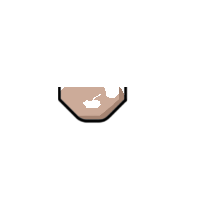
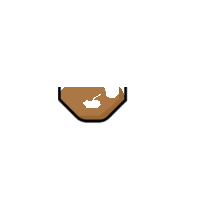
refactored randomisation of displays

Changed region(s): [[0.3, 0.42, 0.63, 0.6]]

diff --git a/jspsych/plugins/jspsych-source-choice.js b/jspsych/plugins/jspsych-source-choice.js
@@ -3,7 +3,7 @@ Description: jsPsych plugin for running a decision-making task that tests people
 Preferably load p5.min.js in the main experiment page (otherwise it will be downloaded from cdnjs.cloudflare.com)
 Need to load jsStat in main expt page
 Todo:
-- will need more logos - and check how logocount is used
+randomise anchors (currently 0-2 male; 3-5 female)
 */
 
 jsPsych.plugins['source-choice'] = (function(){
@@ -34,6 +34,12 @@ jsPsych.plugins['source-choice'] = (function(){
         type: jsPsych.plugins.parameterType.STRING,
         default: 'high',
         description: 'If "high" then all TVs different; if "low" then all the same'
+      },
+      anchor_ids: {
+        type: jsPsych.plugins.parameterType.INT,
+        array: true,
+        default: [0, 1, 2, 3, 4],
+        description: 'Which anchor IDs to use (shuffle in main expt script)'
       },
       social_info_initial: {
         type: jsPsych.plugins.parameterType.FLOAT,
@@ -231,18 +237,40 @@ jsPsych.plugins['source-choice'] = (function(){
     var trialState = 'scenario';
     var estimate;
     var confidence;
-    var displays = [];
-    var thoughts = [];
-    var agents = [];
+    var displays;
+    var thoughts;
+    var agents;
     var hide_agents = ['scenario', 'priorEstimate', 'priorConfidence'];
     var hide_tv = ['scenario', 'priorEstimate', 'priorConfidence', 'priorAgents'];
     var show_bar = ['priorEstimate', 'priorConfidence', 'posteriorEstimate', 'posteriorConfidence'];
 
     // trial functions
 
+    console.log(trial.anchor_ids)
+
+    function displayId(i){
+      // depending on the trial condition (diversity = hi/low)
+      // return a lookup dict to translate anchor # to anchor ID
+      if(trial.diversity == 'low'){
+        if(i==1){
+          // console.log(i, trial.anchor_ids[1])
+          return 1;
+        } else {
+          // console.log(i, trial.anchor_ids[0])
+          return 0;
+        }
+      } else {
+        if(i==3){
+          return 0;
+        } else {
+          return i;
+        }
+      }
+    }
+
     function endTrial() {
-      display_element.innerHTML = ''; // clear everything
       mainSketch.remove();
+      display_element.innerHTML = ''; // clear everything
       jsPsych.finishTrial(trial_data);
     }
 
@@ -293,6 +321,7 @@ jsPsych.plugins['source-choice'] = (function(){
     }
 
     // set up the social data
+
     var social_info = {};
     if(trial.social_info_initial.length>0){
       social_info.initial = trial.social_info_initial;
@@ -334,15 +363,15 @@ jsPsych.plugins['source-choice'] = (function(){
       second = second[0];
       var downward = 0;
       var upward = 0;
-      if(max - second < 0.05){
-        var diff = 0.05 - (max - second);
+      if(max - second < 0.06){
+        var diff = 0.06 - (max - second);
         upward = Math.min(1-max,diff/2);
         downward = diff - upward;
       }
       // incorporate above, and avoid any outright zeros
       var random_array_edited = _.map(random_array, function(d){
         if(d==0){
-          return 0.02;
+          return 0.03;
         } else if(d==second){
           return d - downward;
         } else if(d==max){
@@ -401,15 +430,20 @@ jsPsych.plugins['source-choice'] = (function(){
   function createSketch(){
     mainSketch = new p5(function( sketch ) {
 
-
+      // set global vars
+      displays = [];
+      thoughts = [];
+      agents = [];
 
       // declare sketch variables
-      var logoCount = 7;
       var thought;
-      var logos = [];
       var tvs = [];
+      var backgrounds = [];
+      var anchors = [];
+      var jaws = [];
       var remotesImg = [];
       var remotes = [];
+
       var agentCount = trial.agents;
       var agentParts = {m: {hair: []}, f: {hair: {}}};
       var sketchWidth = 900;
@@ -418,14 +452,9 @@ jsPsych.plugins['source-choice'] = (function(){
       var thoughtSize = 100;
       var topMargin = 50;
       var passes = 4;
-      var displaySizes = {
-        0: {x: 150, y: 100},
-        1: {x: 150, y: 92},
-        2: {x: 150, y: 81},
-        3: {x: 150, y: 93},
-        4: {x: 150, y: 87}
-      };
-      var tvSize = {x: 160, y: 130};
+      var displaySize = {x: 141, y: 88};
+      var displayOffset = {x: 10, y: 31};
+      var tvSize = {x: 160, y: 160};
       var bodyColors = [{r: 255, g: 30, b: 30}, {r: 51, g: 158, b: 51}, {r: 227, g: 80, b: 234},
           {r: 247, g: 147, b: 35}, {r: 9, g: 202, b: 237}];
       var hairColors = [{r: 236, g: 236, b: 25}, {r: 160, g: 68, b: 11}, {r: 167, g: 113, b: 13},
@@ -739,38 +768,72 @@ jsPsych.plugins['source-choice'] = (function(){
         };
       }
 
-      function Display(agentNumber, logoNumber){
-        this.logoNumber = logoNumber;
+      function Display(agentNumber, channel){
         this.agentNumber = agentNumber;
         this.passes = passes;
         this.tv = tvs[agentNumber];
-        this.displaySize = displaySizes[agentNumber];
-        this.logo = logos[logoNumber];
+        this.channel = channel;
         this.on = false;
         this.stable = false;
         this.y = agentNumber*((sketchHeight-topMargin)/agentCount) + topMargin;
         this.x = 290;
-        this.displayIndex = (logoNumber+1)%logoCount;
+        this.jawOffset = 0;
 
-        this.spinLogos = function(){
-          sketch.image(logos[this.displayIndex],0,0,this.displaySize.x,this.displaySize.y);
-          if(this.passes <= 0){
-            this.displayIndex = this.logoNumber;
+        // for random channels, set up a random sequence of displays
+        if(trial.choice_type == 'random'){
+          var displaySequence = [];
+          for(var i = 0; i<passes; i++){
+            trial.anchor_ids.forEach(function(d,i){
+              displaySequence.push(i);
+            });
+          }
+          this.displaySequence = _.shuffle(displaySequence);
+          this.displayIndex = this.displaySequence.length;
+          this.channelIndex = this.displaySequence[this.displayIndex]
+        }
+
+        this.blankScreen = function(){
+          sketch.push();
+            sketch.translate(displayOffset.x, displayOffset.y);
+            sketch.rect(0, 0, displaySize.x, displaySize.y);
+          sketch.pop();
+        };
+
+        this.jawMove = function(){
+          if(this.jawOffset == 0){
+            this.jawOffset = 1;
+          } else {
+            this.jawOffset = 0;
+          }
+        };
+
+        this.spinChannels = function(){
+          if(this.displayIndex <= 0){
+            this.channelIndex = this.channel;
             this.stable = true;
+            if(trialState == 'tvStart' | trialState == 'tvsOn' | trialState == 'posteriorAgents'){
+              this.jawMove();
+            }
             if(trialState=='tvStart'){
               checkDisplays();
             }
           } else {
-            if (this.displayIndex == this.logoNumber){
-              this.passes -= 1;
-            }
-            this.displayIndex = (this.displayIndex+1)%logoCount;
+            this.displayIndex -= 1;
+            this.channelIndex = this.displaySequence[this.displayIndex];
           }
+          sketch.image(backgrounds[this.channelIndex], 0, 0, tvSize.x, tvSize.y);
+          sketch.image(anchors[this.channelIndex], 0, 0, tvSize.x, tvSize.y);
+          sketch.image(jaws[this.channelIndex], 0, this.jawOffset, tvSize.x, tvSize.y);
         };
 
         this.showLogo = function(){
-          sketch.image(logos[this.logoNumber],0,0,this.displaySize.x,this.displaySize.y);
+          sketch.image(backgrounds[this.channel], 0, 0, tvSize.x, tvSize.y);
+          sketch.image(anchors[this.channel], 0, 0, tvSize.x, tvSize.y);
+          sketch.image(jaws[this.channel], 0, this.jawOffset, tvSize.x, tvSize.y);
           this.stable = true;
+          if(trialState == 'tvStart' | trialState == 'tvsOn' | trialState == 'posteriorAgents'){
+            this.jawMove();
+          }
           if(trialState=='tvStart'){
             checkDisplays();
           }
@@ -784,16 +847,16 @@ jsPsych.plugins['source-choice'] = (function(){
 
               sketch.image(this.tv, 0, 0, tvSize.x, tvSize.y);
               sketch.push();
-                sketch.translate(5, 5);
                 if(this.on){
                   sketch.fill(255);
                 } else {
                   sketch.fill(40);
                 }
-                sketch.rect(0, 0, this.displaySize.x, this.displaySize.y);
+                // blank screen
+                this.blankScreen();
                 if(this.on){
                   if(trial.choice_type=='random'){
-                    this.spinLogos();
+                    this.spinChannels();
                   } else {
                     this.showLogo();
                   }
@@ -806,9 +869,9 @@ jsPsych.plugins['source-choice'] = (function(){
         this.clicked = function(e){
           if(trialState == 'tvStart' & trial.choice_type=='random'){
             if(sketch.mouseX >= this.x &
-               sketch.mouseX <= this.x + this.displaySize.x &
+               sketch.mouseX <= this.x + displaySize.x &
                sketch.mouseY >= this.y &
-               sketch.mouseY <= this.y + this.displaySize.y){
+               sketch.mouseY <= this.y + displaySize.y){
                this.on = true;
             }
           }
@@ -845,6 +908,7 @@ jsPsych.plugins['source-choice'] = (function(){
                sketch.mouseY <= this.y + 35){
                  this.on = true;
                  displays[this.index].on = true;
+                 console.log(displays[this.index])
                }
           }
         };
@@ -871,22 +935,24 @@ jsPsych.plugins['source-choice'] = (function(){
         agentParts.m.feet = sketch.loadImage('img/agents/feet.png');
         agentParts.m.legs = sketch.loadImage('img/agents/m_legs.png');
 
-        for(var i = 0; i<logoCount; i++){
-          logos[i] = sketch.loadImage('img/logos/'+i+'.png');
-        }
-
         var factors = {gender: ['m', 'f'], hair: [0, 1, 2]};
         var ids = jsPsych.randomization.factorial(factors, 1);
 
         for(var j = 0; j<agentCount; j++){
-          tvs[j] = sketch.loadImage('img/tvs/'+j+'.png');
+          tvs[j] = sketch.loadImage('img/tv/tv_'+j+'.png');
           if(trial.choice_type=='intentional'){
             remotesImg[j] = sketch.loadImage('img/remotes/'+j+'.png');
           }
           var gender = ids[j].gender;
           var hair = ids[j].hair;
+          console.log(j)
           agents[j] = new Agent(gender, hair, j);
         }
+        trial.anchor_ids.forEach(function(d,i){
+          backgrounds[i] = sketch.loadImage('img/tv/channel_'+d+'.png');
+          anchors[i] = sketch.loadImage('img/tv/anchor_'+d+'_body.png');
+          jaws[i] = sketch.loadImage('img/tv/anchor_'+d+'_jaw.png');
+        });
       };
 
       // set up sketch
@@ -894,16 +960,16 @@ jsPsych.plugins['source-choice'] = (function(){
       sketch.setup = function() {
 
         thought.loadPixels();
-        logos.forEach(function(d,i){
-          logos[i].loadPixels();
+        backgrounds.forEach(function(d,i){
+          backgrounds[i].loadPixels();
+          anchors[i].loadPixels();
+          jaws[i].loadPixels();
         });
         agents.forEach(function(d,i){
           tvs[i].loadPixels();
-          if(trial.diversity == 'high'){
-            displays[i] = new Display(i, i);
-          } else {
-            displays[i] = new Display(i, trial.agents+1);
-          }
+          var k = displayId(i);
+          console.log(i,k)
+          displays[i] = new Display(i, k);
           thoughts[i] = new Thought(i, Math.random(), Math.random());
           if(trial.choice_type=='intentional'){
             remotesImg[i].loadPixels();
@@ -960,7 +1026,6 @@ jsPsych.plugins['source-choice'] = (function(){
       };
 
     }, 'mainSketchContainer');
-
 
     $('body').on('click', function(e){
       if(['scenario', 'tvsOn'].indexOf(trialState) != -1 & e.target.id=='next'){
